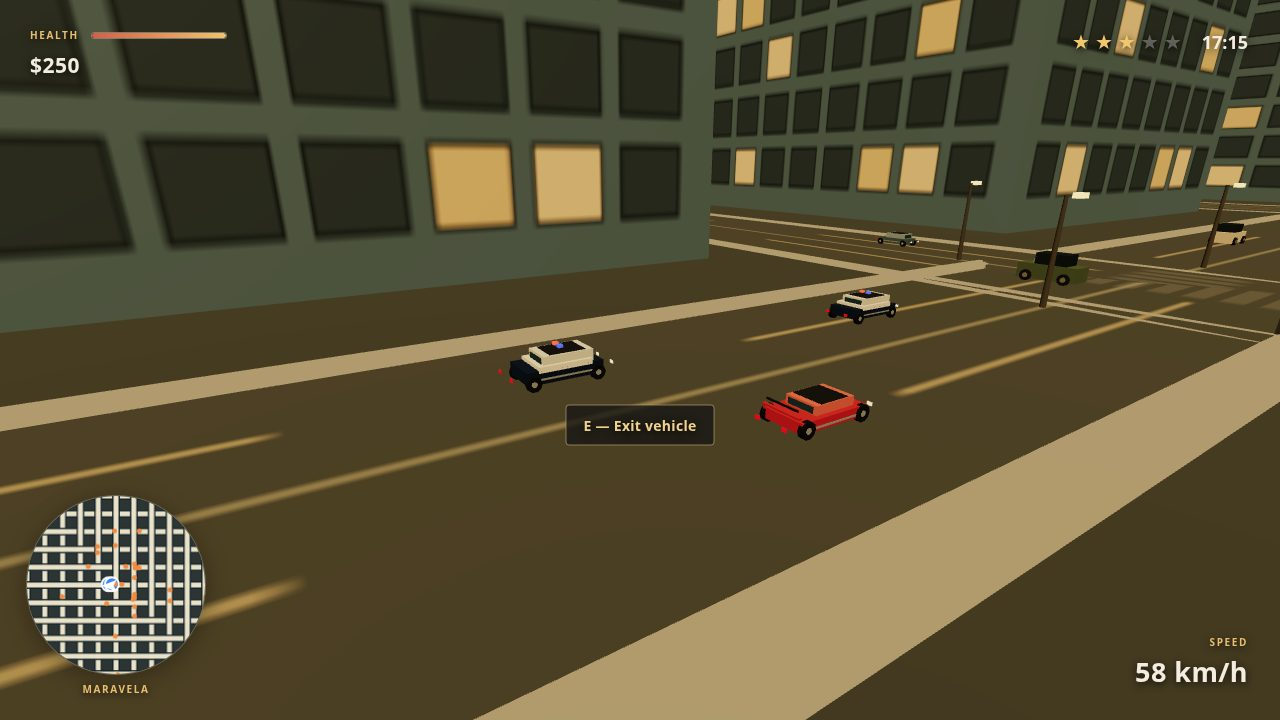
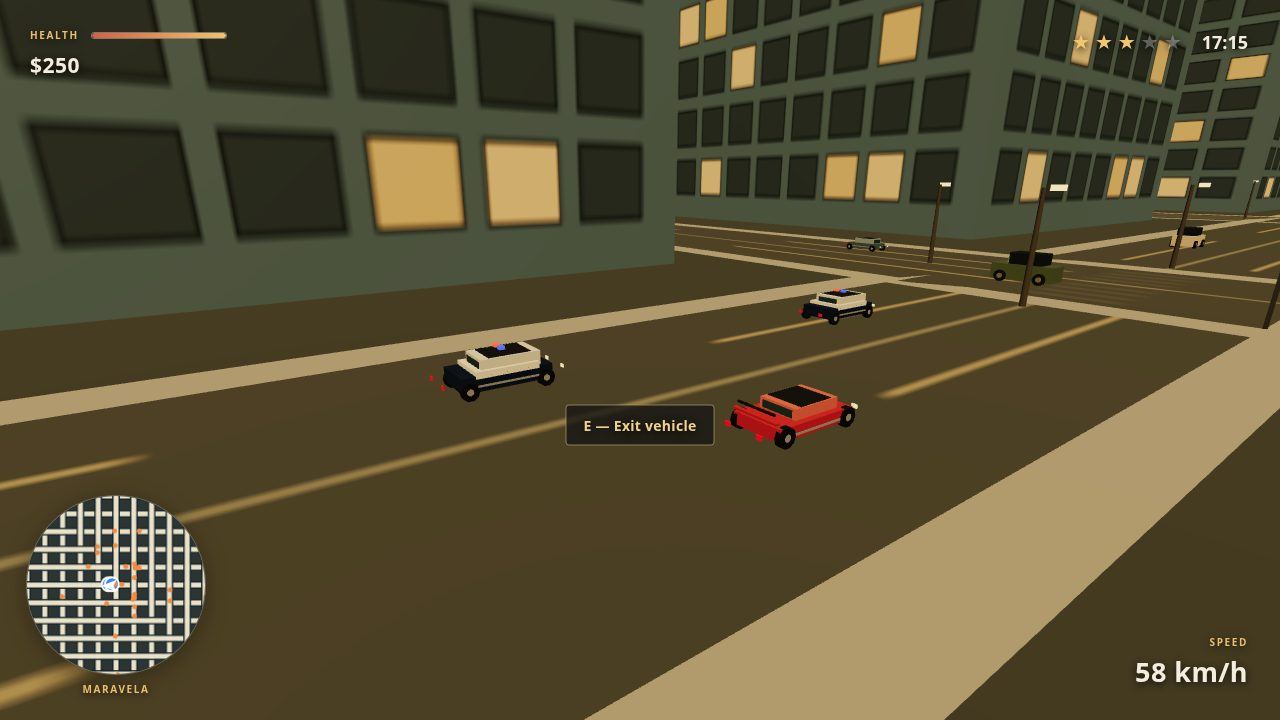
Sunline: City of Tides — Builder C2 polish (make.fun gta6-01)
Warm sky (unfogged dome gradient), start shot re-framed from over the
ocean so the coast reads, chase camera closer/lower, crosswalk dashes
toned down, player.pos synced to the car in shot mode + on entry

diff --git a/game/src/shots.js b/game/src/shots.js
@@ -23,7 +23,7 @@ function setGroupPosition(group, x, y, z) {
   if (group?.position?.set) group.position.set(x, y, z);
 }
 
-function setCarPosition(car, x, z, heading) {
+function setCarPosition(car, x, z, heading, state) {
   if (!car) return;
   if (car.pos && typeof car.pos === 'object') {
     car.pos.x = x;
@@ -35,6 +35,16 @@ function setCarPosition(car, x, z, heading) {
   car.heading = heading;
   setGroupPosition(car.group, x, 0, z);
   if (car.group?.rotation) car.group.rotation.y = -heading;
+  // Keep the shared player position on the car: in shot mode the sim is
+  // frozen, so vehicles.update() never runs its per-frame sync and
+  // state.player.pos would stay stale at (0,0) — the minimap arrow and
+  // anything reading the player position would point at the city centre.
+  if (state?.player?.pos) {
+    state.player.pos.x = x;
+    state.player.pos.y = 0;
+    state.player.pos.z = z;
+    state.player.heading = heading;
+  }
 }
 
 function setTrafficCar(entry, x, z, heading) {
@@ -134,12 +144,13 @@ export function applyShot(name, context) {
       state.screen = 'title';
       state.paused = false;
       state.wanted = 0;
-      // High view over the Glassline skyline with the beach road below.
-      // Also tried: south-west-facing (dark facades), beach-level (too
-      // much empty sky), north-looking-south (no coast visible through
-      // the haze) — this framing stays the best of the four.
-      camera.position.set(120, 55, 260);
-      camera.lookAt(0, 40, -40);
+      // From over the ocean looking north-west: teal water in the
+      // foreground, beach + palms + marina mid-frame, Glassline towers
+      // rising beyond — the coastal-city postcard. Tower tops clear the
+      // title card into the top strip; the coast reads at the frame edges
+      // and below the card.
+      camera.position.set(250, 60, 850);
+      camera.lookAt(-80, 62, -100);
       return true;
     }
 
@@ -149,7 +160,7 @@ export function applyShot(name, context) {
       const car = vehicles.createCar('sports', -80, 4.5, Math.PI / 2);
       vehicles.enterVehicle(car);
       car.speed = 14;
-      setCarPosition(car, -80, 4.5, Math.PI / 2);
+      setCarPosition(car, -80, 4.5, Math.PI / 2, state);
       const trafficCars = traffic?.cars || [];
       const spots = [
         [car.pos.x + 28, 4.5],
@@ -171,7 +182,7 @@ export function applyShot(name, context) {
       const car = vehicles.createCar('sports', playerX, 4.5, Math.PI / 2);
       vehicles.enterVehicle(car);
       car.speed = 16;
-      setCarPosition(car, playerX, 4.5, Math.PI / 2);
+      setCarPosition(car, playerX, 4.5, Math.PI / 2, state);
       police?.setWanted?.(3);
       state.wanted = 3;
 
@@ -198,9 +209,11 @@ export function applyShot(name, context) {
       // Chase view from behind, pulled back and offset to the south side so
       // the trailing north-lane cruiser stays well inside the frame; the
       // lookAt sits west of the player car so the car lands right-of-centre,
-      // clear of the centred "E — Exit vehicle" prompt.
-      camera.position.set(playerX - 16, 9, 18);
-      camera.lookAt(playerX - 4, 1.5, -1);
+      // clear of the centred "E — Exit vehicle" prompt. Closer and lower
+      // than the first pass so both cruisers and the player car read bigger
+      // and less foreground road sits empty.
+      camera.position.set(playerX - 14, 7.5, 16);
+      camera.lookAt(playerX - 2, 1.2, -1);
       finishPlayShot(state);
       return true;
     }

diff --git a/game/src/world.js b/game/src/world.js
@@ -274,8 +274,8 @@ function createRoadTexture(axis) {
     ctx.strokeStyle = 'rgba(225,211,168,0.42)';
     ctx.beginPath(); ctx.moveTo(0, 64); ctx.lineTo(canvas.width, 64); ctx.stroke();
     for (let x = 0; x < canvas.width; x += 102) {
-      ctx.fillStyle = 'rgba(168,166,150,0.26)';
-      for (let y = 8; y < 120; y += 13) ctx.fillRect(x, y, 6, 8);
+      ctx.fillStyle = 'rgba(168,166,150,0.13)';
+      for (let y = 8; y < 120; y += 13) ctx.fillRect(x, y, 5, 6);
     }
   } else {
     [35, 93].forEach((x) => { ctx.beginPath(); ctx.moveTo(x, 0); ctx.lineTo(x, canvas.height); ctx.stroke(); });
@@ -283,8 +283,8 @@ function createRoadTexture(axis) {
     ctx.strokeStyle = 'rgba(225,211,168,0.42)';
     ctx.beginPath(); ctx.moveTo(64, 0); ctx.lineTo(64, canvas.height); ctx.stroke();
     for (let y = 0; y < canvas.height; y += 102) {
-      ctx.fillStyle = 'rgba(168,166,150,0.26)';
-      for (let x = 8; x < 120; x += 13) ctx.fillRect(x, y, 8, 6);
+      ctx.fillStyle = 'rgba(168,166,150,0.13)';
+      for (let x = 8; x < 120; x += 13) ctx.fillRect(x, y, 6, 5);
     }
   }
   return makeCanvasTexture(canvas);
@@ -357,14 +357,14 @@ function makeSkyDome() {
   const geometry = new THREE.SphereGeometry(1150, 48, 32);
   const positions = geometry.attributes.position;
   const colors = [];
-  const horizon = new THREE.Color(0xeab180);
-  const zenith = new THREE.Color(0x8585b8);
+  const horizon = new THREE.Color(0xf2a96b);
+  const zenith = new THREE.Color(0x6f87c0);
   const lower = new THREE.Color(0xb97f6e);
 
   for (let i = 0; i < positions.count; i++) {
     const y = positions.getY(i) / 1150;
     const color = y >= 0
-      ? horizon.clone().lerp(zenith, THREE.MathUtils.smoothstep(y, 0, 1))
+      ? horizon.clone().lerp(zenith, THREE.MathUtils.smoothstep(y, 0.12, 1))
       : lower.clone().lerp(horizon, THREE.MathUtils.smoothstep(y, -0.35, 0));
     colors.push(color.r, color.g, color.b);
   }
@@ -374,6 +374,9 @@ function makeSkyDome() {
     vertexColors: true,
     side: THREE.BackSide,
     depthWrite: false,
+    // Never fog the sky itself: fogging the dome at ~1150 units muddied
+    // the gradient to flat brown-grey. Fog is for city geometry only.
+    fog: false,
   });
   const dome = new THREE.Mesh(geometry, material);
   dome.name = 'warm sunset sky dome';
@@ -430,8 +433,8 @@ export function buildCity(scene, world) {
   world.cityGroup = group;
   scene.add(group);
 
-  scene.background = new THREE.Color(0xeab180);
-  scene.fog = new THREE.Fog(0xecc79b, 400, 1400);
+  scene.background = new THREE.Color(0xf2a96b);
+  scene.fog = new THREE.Fog(0xf0c184, 520, 1700);
   group.add(makeSkyDome());
 
   scene.add(new THREE.HemisphereLight(0xf3d9ae, 0x8a6a4f, 1.25));

diff --git a/game/src/vehicles.js b/game/src/vehicles.js
@@ -620,6 +620,13 @@ export function createVehicleManager(scene, world, camera) {
     materializeVehicle(vehicle, scene);
     state.currentVehicle = vehicle;
     state.player.onFoot = false;
+    // The player is in the car now: keep the shared position on the
+    // vehicle (vehicles.update() re-syncs this every frame while driving,
+    // but entry itself must not leave a stale on-foot position behind).
+    state.player.pos.x = vehicle.pos.x;
+    state.player.pos.y = vehicle.pos.y ?? 0;
+    state.player.pos.z = vehicle.pos.z;
+    state.player.heading = vehicle.heading;
     state.player.vel.x = 0;
     state.player.vel.y = 0;
     state.player.vel.z = 0;
